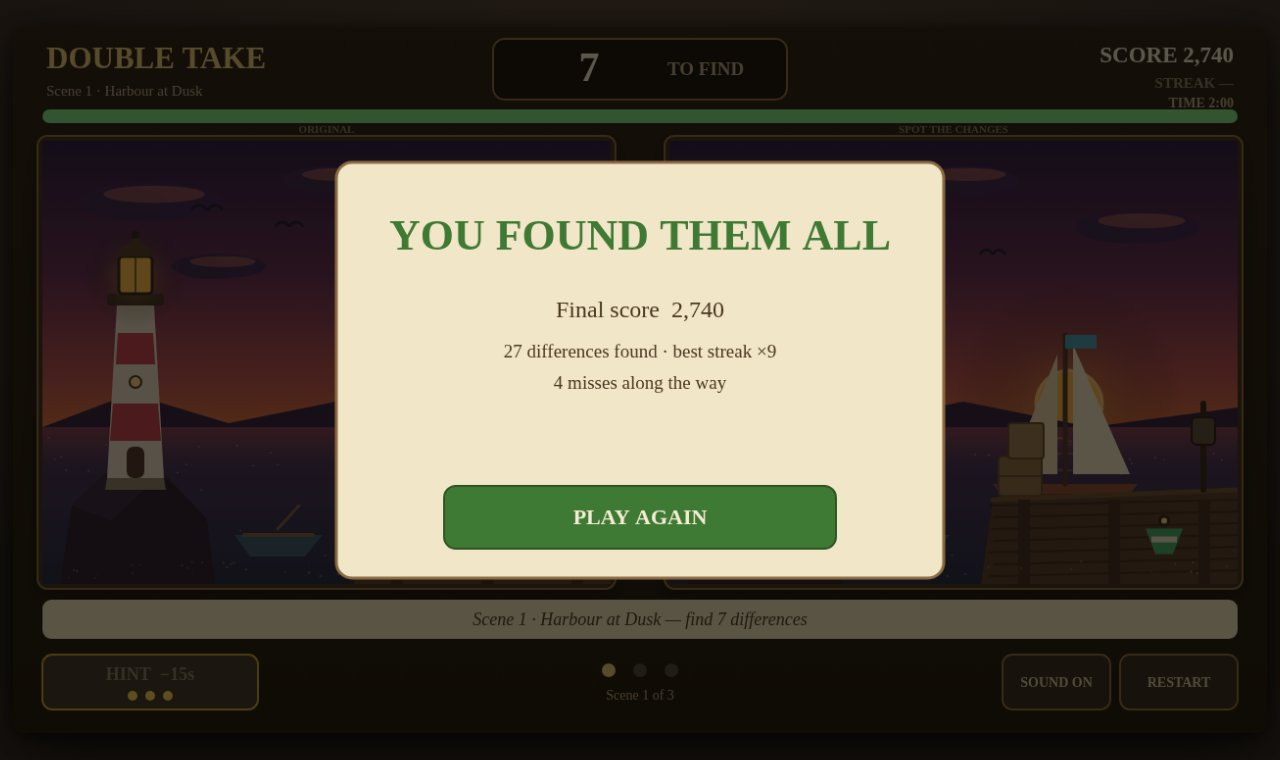
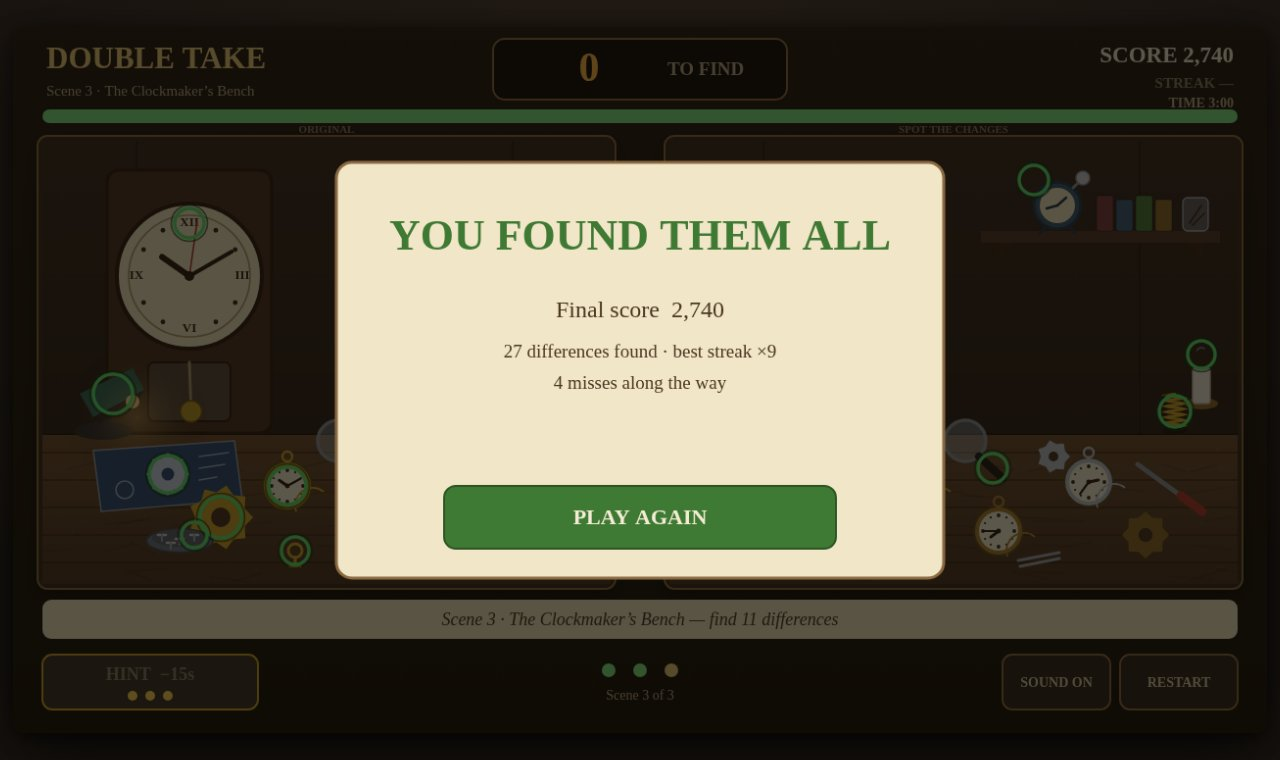
Pose the win screenshot over the finished bench scene

diff --git a/game/js/main.js b/game/js/main.js
@@ -43,13 +43,18 @@ function applyStaging(params) {
   };
   startPlaying();
   if (stage === 'end') {
+    loadScene(SCENES.length - 1);
+    game.now = 1.35;
+    for (const diff of game.scene.differences) {
+      game.found.add(diff.id);
+      game.rings.push({ id: diff.id, x: diff.x, y: diff.y, r: diff.r, born: game.now - 2 });
+    }
     game.score = 2740;
     game.totalFinds = 27;
     game.bestStreak = 9;
     game.misses = 4;
     game.phase = 'won';
     game.frozen = true;
-    game.now = 1.35;
     return;
   }
   const pose = presets[stage] ?? { scene: 0, found: [], left: null, score: 0, streak: 0, hints: 3 };
